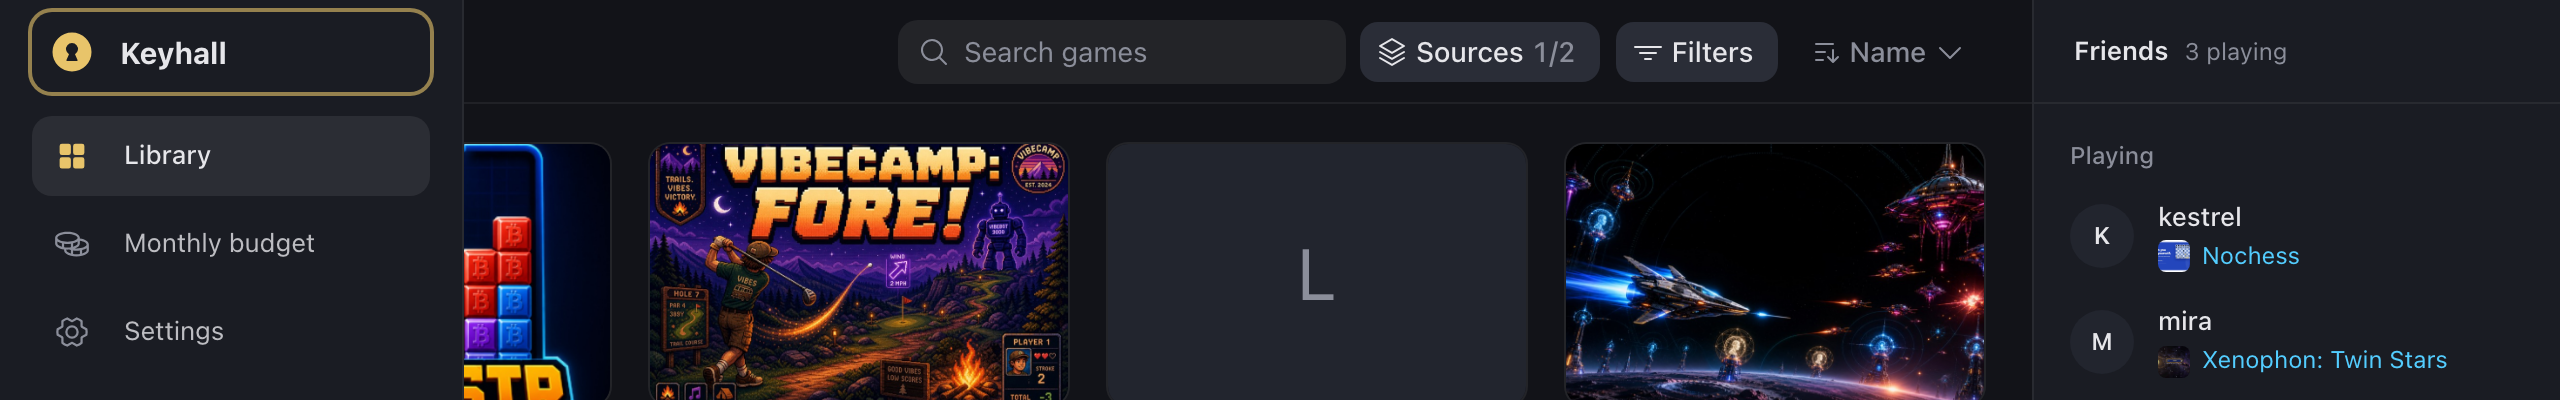
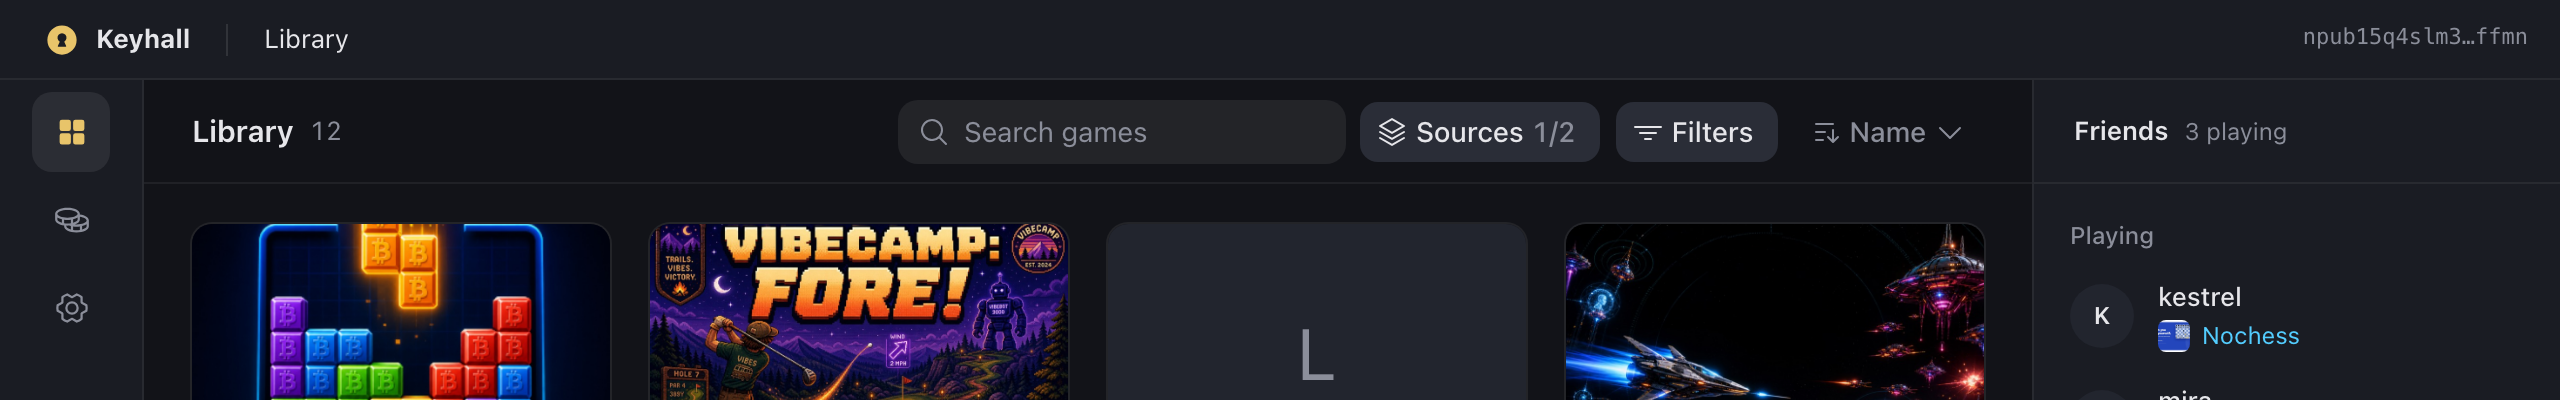
feat: Steam-style window bar across the launcher
The launcher window gets a full-width 40 px bar in the rail's surface colour above the rail, library and friends column. The traffic lights sit centred in it on the left, followed by the Keyhall mark (a home button to the Library) and a breadcrumb of the current page; the npub moves from the rail to the bar's right edge. The whole bar is a drag region with buttons excluded, double-click zooms, and in full-screen the light gap closes. The rail starts under the bar again and the per-page drag strips and the 52 px band are gone. Game windows keep their native title bar.

diff --git a/apps/desktop/src/Nav.tsx b/apps/desktop/src/Nav.tsx
@@ -6,13 +6,10 @@ import {
   AppWindowIcon,
   CoinsIcon,
   GearSixIcon,
-  KeyholeIcon,
   SquaresFourIcon,
   StopIcon,
   type Icon,
 } from "@phosphor-icons/react";
-import { getCurrentWindow } from "@tauri-apps/api/window";
-import { useEffect } from "react";
 import { minutes, Launcher, useNow } from "./launcher.ts";
 import { Cover, GameIcon, Live } from "./Library.tsx";
 
@@ -107,37 +104,14 @@ function RunningCard({ game, since }: { game: Game; since: number | undefined })
   );
 }
 
-function useFullscreenAttribute() {
-  useEffect(() => {
-    const window = getCurrentWindow();
-    const update = () =>
-      window
-        .isFullscreen()
-        .then((full) => document.documentElement.toggleAttribute("data-fullscreen", full));
-    void update();
-    const off = window.onResized(update);
-    return () => void off.then((f) => f());
-  }, []);
-}
-
 export function Nav() {
-  useFullscreenAttribute();
   const context = Launcher.useSelector((s) => s.context);
   const { send } = Launcher.useActorRef();
-  const { view, npub } = context;
+  const { view } = context;
   return (
     <aside className="relative z-30 h-full">
       <div className="group/rail absolute inset-y-0 left-0 flex w-[72px] flex-col overflow-clip border-r border-white/[0.06] bg-sidebar px-4 transition-[width,box-shadow] duration-200 ease-[cubic-bezier(0.22,1,0.36,1)] has-[:focus-visible]:w-[232px] hover:w-[232px] hover:shadow-[16px_0_40px_-12px_rgba(0,0,0,0.65)] motion-reduce:transition-none">
-        <div data-tauri-drag-region className="-mx-4 h-[52px] shrink-0 in-data-fullscreen:hidden" />
-        <button
-          aria-label="Keyhall, go to Library"
-          onClick={() => send({ type: "select" })}
-          className="flex h-10 w-full shrink-0 items-center gap-3 rounded-lg pl-2 outline-none focus-visible:ring-2 focus-visible:ring-ring/60 in-data-fullscreen:mt-1.5"
-        >
-          <KeyholeIcon weight="fill" className="size-6 shrink-0 text-primary" />
-          <span className={cn("text-[15px] font-bold", fade)}>Keyhall</span>
-        </button>
-        <nav className="mt-3 grid grid-cols-1 gap-1">
+        <nav className="mt-1.5 grid grid-cols-1 gap-1">
           <Item
             icon={SquaresFourIcon}
             label="Library"
@@ -161,14 +135,6 @@ export function Nav() {
           {running(context).map(({ game, since }) => (
             <RunningCard key={game.coordinate} game={game} since={since} />
           ))}
-          {npub && (
-            <div className="flex h-8 items-center gap-3 pl-2" title={npub}>
-              <KeyholeIcon className="size-6 shrink-0 text-muted-foreground" />
-              <span className={cn("truncate font-mono text-[11px] text-muted-foreground", fade)}>
-                {npub.slice(0, 12)}…{npub.slice(-4)}
-              </span>
-            </div>
-          )}
         </div>
       </div>
     </aside>

diff --git a/apps/desktop/src/TitleBar.tsx b/apps/desktop/src/TitleBar.tsx
@@ -1,0 +1,69 @@
+import { CaretRightIcon, KeyholeIcon } from "@phosphor-icons/react";
+import { getCurrentWindow } from "@tauri-apps/api/window";
+import { useEffect } from "react";
+import { Launcher } from "./launcher.ts";
+
+const VIEWS = { budget: "Monthly budget", settings: "Settings" };
+
+function useFullscreenAttribute() {
+  useEffect(() => {
+    const window = getCurrentWindow();
+    const update = () =>
+      window
+        .isFullscreen()
+        .then((full) => document.documentElement.toggleAttribute("data-fullscreen", full));
+    void update();
+    const off = window.onResized(update);
+    return () => void off.then((f) => f());
+  }, []);
+}
+
+export function TitleBar() {
+  useFullscreenAttribute();
+  const { current, view, npub } = Launcher.useSelector((s) => s.context);
+  const { send } = Launcher.useActorRef();
+  const crumb =
+    "rounded-md px-1.5 py-0.5 outline-none focus-visible:ring-2 focus-visible:ring-ring/60";
+  return (
+    <header
+      data-tauri-drag-region="deep"
+      className="col-span-full flex h-10 items-center gap-3 border-b border-white/[0.06] bg-sidebar pr-4 pl-[84px] select-none in-data-fullscreen:pl-4"
+    >
+      <button
+        aria-label="Keyhall, go to Library"
+        onClick={() => send({ type: "select" })}
+        className={`flex items-center gap-2 text-[13px] font-bold ${crumb}`}
+      >
+        <KeyholeIcon weight="fill" className="size-[18px] text-primary" />
+        Keyhall
+      </button>
+      <span className="h-4 w-px bg-white/10" />
+      <nav
+        aria-label="Breadcrumb"
+        className="flex min-w-0 items-center gap-1 text-muted-foreground"
+      >
+        {view ? (
+          <span className="px-1.5 text-foreground">{VIEWS[view]}</span>
+        ) : current ? (
+          <>
+            <button
+              onClick={() => send({ type: "select" })}
+              className={`hover:text-foreground ${crumb}`}
+            >
+              Library
+            </button>
+            <CaretRightIcon className="size-3 shrink-0" />
+            <span className="truncate px-1.5 text-foreground">{current.name}</span>
+          </>
+        ) : (
+          <span className="px-1.5 text-foreground">Library</span>
+        )}
+      </nav>
+      {npub && (
+        <span title={npub} className="ml-auto font-mono text-[11px] text-muted-foreground">
+          {npub.slice(0, 12)}…{npub.slice(-4)}
+        </span>
+      )}
+    </header>
+  );
+}

diff --git a/apps/desktop/src/App.tsx b/apps/desktop/src/App.tsx
@@ -11,6 +11,7 @@ import { Nav } from "./Nav.tsx";
 import { PresenceSettings } from "./PresenceSettings.tsx";
 import { SignerLog } from "./SignerLog.tsx";
 import { SignRequest } from "./SignRequest.tsx";
+import { TitleBar } from "./TitleBar.tsx";
 
 function Settings() {
   const context = Launcher.useSelector((s) => s.context);
@@ -32,12 +33,10 @@ export function App() {
   const { current, view } = Launcher.useSelector((s) => s.context);
   const [filters, setFilters] = useState(NO_FILTERS);
   return (
-    <div className="grid h-screen grid-cols-[72px_minmax(0,1fr)_264px] text-[13px]">
+    <div className="grid h-screen grid-cols-[72px_minmax(0,1fr)_264px] grid-rows-[auto_minmax(0,1fr)] text-[13px]">
+      <TitleBar />
       <Nav />
-      <div className="relative min-h-0 min-w-0">
-        {(view || current) && (
-          <div data-tauri-drag-region className="absolute inset-x-0 top-0 z-10 mr-3 h-[52px]" />
-        )}
+      <div className="min-h-0 min-w-0">
         {view === "budget" ? (
           <div className="h-full overflow-y-auto px-8 pt-6 pb-10">
             <BudgetPage />

diff --git a/apps/desktop/src/Friends.tsx b/apps/desktop/src/Friends.tsx
@@ -31,10 +31,7 @@ export function FriendsColumn() {
   const heading = "flex h-7 items-center px-2 text-[12px] font-medium text-muted-foreground";
   return (
     <aside className="flex h-full min-h-0 flex-col border-l border-white/[0.06] bg-sidebar">
-      <header
-        data-tauri-drag-region="deep"
-        className="flex h-[52px] shrink-0 items-center gap-2 border-b border-white/[0.06] px-5"
-      >
+      <header className="flex h-[52px] shrink-0 items-center gap-2 border-b border-white/[0.06] px-5">
         <span className="text-[13px] font-semibold">Friends</span>
         {active.length > 0 && (
           <span className="text-[12px] text-muted-foreground">{active.length} playing</span>

diff --git a/apps/desktop/src/Library.tsx b/apps/desktop/src/Library.tsx
@@ -129,10 +129,7 @@ function Toolbar({
   const active = activeFilters(filters);
   return (
     <>
-      <header
-        data-tauri-drag-region="deep"
-        className="flex h-[52px] shrink-0 items-center gap-2 border-b border-white/[0.06] px-6"
-      >
+      <header className="flex h-[52px] shrink-0 items-center gap-2 border-b border-white/[0.06] px-6">
         <h1 className="text-[15px] font-semibold">Library</h1>
         <span className="text-muted-foreground tabular-nums">{count}</span>
         <div className="ml-auto flex min-w-0 items-center gap-1.5">

diff --git a/apps/desktop/src/GamePage.tsx b/apps/desktop/src/GamePage.tsx
@@ -117,7 +117,7 @@ export function GamePage({ game }: { game: Game }) {
         variant="ghost"
         size="sm"
         onClick={() => send({ type: "select" })}
-        className="absolute top-3 left-4 z-20 rounded-lg bg-black/45 text-white backdrop-blur-sm hover:bg-black/60"
+        className="absolute top-3 left-4 z-10 rounded-lg bg-black/45 text-white backdrop-blur-sm hover:bg-black/60"
       >
         <ArrowLeftIcon data-icon="inline-start" /> Library
       </Button>
